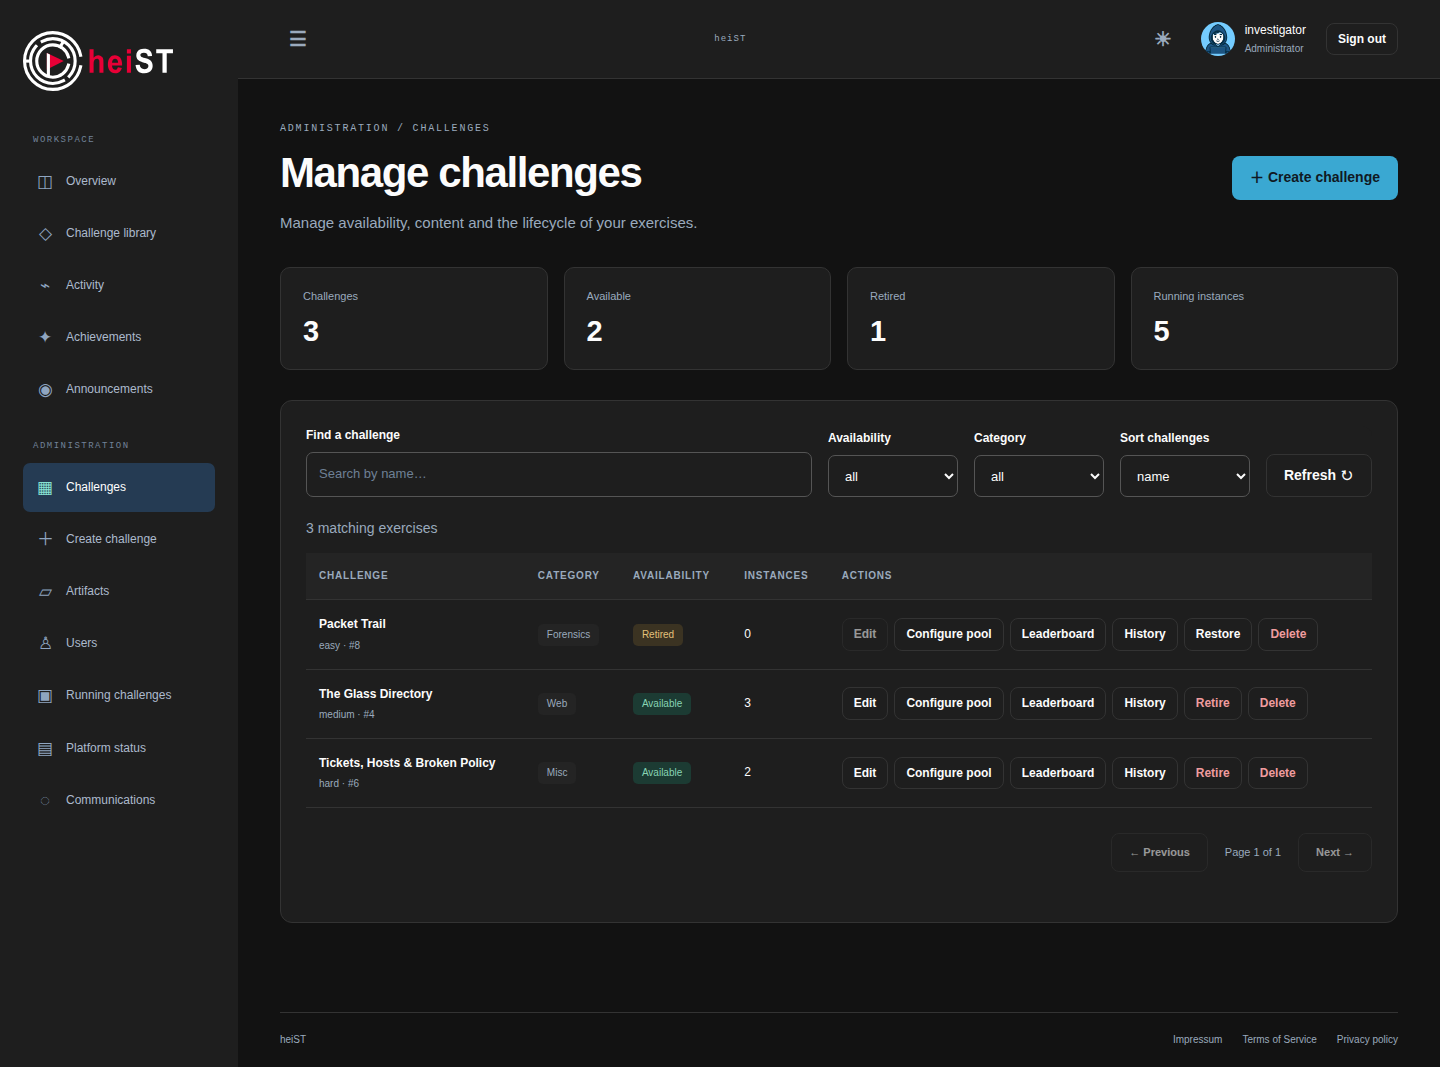
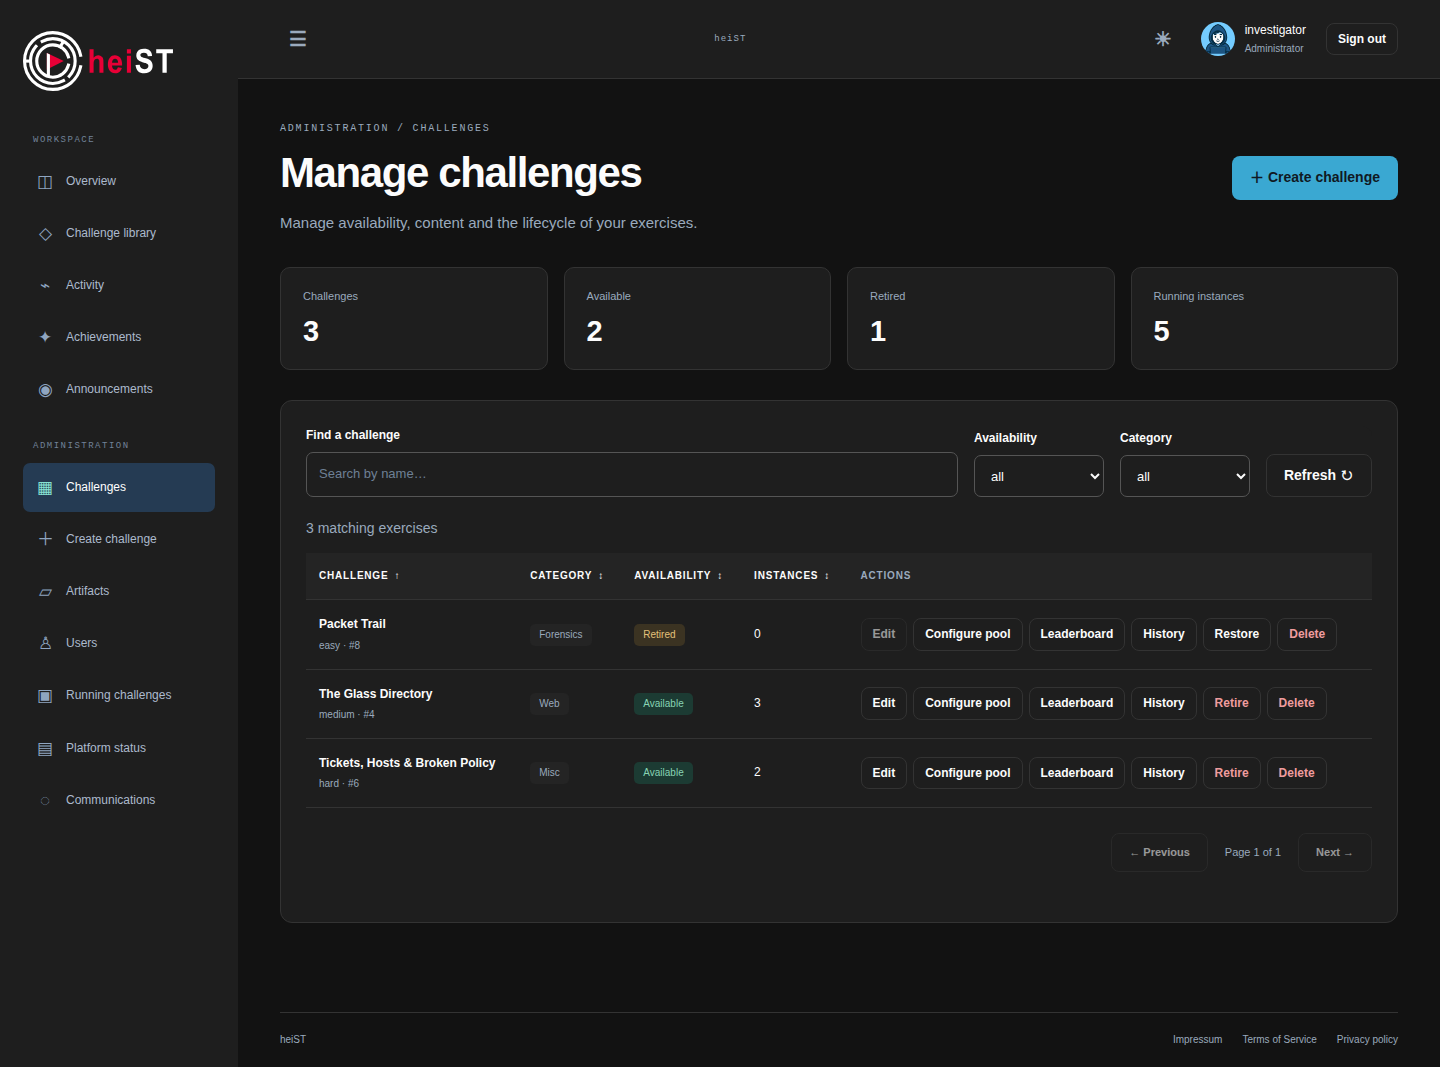
Add sortable administration table columns

diff --git a/frontend/src/features/administration/ChallengeManagementPage.tsx b/frontend/src/features/administration/ChallengeManagementPage.tsx
@@ -6,15 +6,19 @@ import { Link, useRouter } from '../../lib/router.tsx';
 import { useAction, useResource } from '../../lib/state.tsx';
 import { PoolEditor } from './PoolEditor.tsx';
 import { ExerciseHistoryPanel } from './ExerciseHistoryPanel.tsx';
+import { SortableHeader } from '../../components/SortableHeader.tsx';
+import { useTableSort } from '../../lib/useTableSort.ts';
 export function ManageChallenges() {
   const router=useRouter(), selected=number(new URLSearchParams(router.location.split('?')[1]).get('exercise'));
   const resource = useResource('/api/admin/challenges', 30000), data = payload(resource.data), stats = row(data.stats), action = useAction();
   const [search, setSearch] = useState(''), [state, setState] = useState('all'), [deleting, setDeleting] = useState<Row | null>(null), [force, setForce] = useState(false), [leader, setLeader] = useState<Row | null>(null);
   const [poolId,setPoolId] = useState(0);
-  const [category, setCategory] = useState('all'), [sort, setSort] = useState('name'), [page, setPage] = useState(1);
+  const [category, setCategory] = useState('all'), [page, setPage] = useState(1);
+  const sorting = useTableSort<Row>({name: c => text(c.name), category: c => text(c.category),
+    availability: c => truth(c.marked_for_deletion) ? 'Retired' : truth(c.is_active) ? 'Available' : 'Inactive',
+    instances: c => number(c.active_deployments)}, 'name');
   const filtered = rows(data.challenges).filter(c => text(c.name).toLowerCase().includes(search.toLowerCase()) && (state === 'all' || (state === 'active' ? truth(c.is_active) && !truth(c.marked_for_deletion) : state === 'retired' ? truth(c.marked_for_deletion) : !truth(c.is_active))));
-  const matching = filtered.filter(c => category === 'all' || text(c.category) === category)
-    .sort((a, b) => (sort === 'deployments' ? number(b.active_deployments) - number(a.active_deployments) : text(a.name).localeCompare(text(b.name))) || number(a.id) - number(b.id));
+  const matching = sorting.apply(filtered.filter(c => category === 'all' || text(c.category) === category));
   const totalPages = Math.max(1, Math.ceil(matching.length / 20)), currentPage = Math.min(page, totalPages);
   const challenges = matching.slice((currentPage - 1) * 20, currentPage * 20);
   return <>
@@ -44,7 +48,6 @@ export function ManageChallenges() {
             options={['all', 'active', 'inactive', 'retired']}
             onChange={e => { setState(e.target.value); setPage(1); }} />
           <Select label="Category" value={category} options={['all', ...categories]} onChange={e => { setCategory(e.target.value); setPage(1); }} />
-          <Select label="Sort challenges" value={sort} options={['name', 'deployments']} onChange={e => { setSort(e.target.value); setPage(1); }} />
           <button className="secondary" onClick={resource.reload}>Refresh ↻</button>
         </div>
         <p className="muted">{matching.length} matching exercises</p>
@@ -52,10 +55,9 @@ export function ManageChallenges() {
           <table>
             <thead>
               <tr>
-                <th>Challenge</th>
-                <th>Category</th>
-                <th>Availability</th>
-                <th>Instances</th>
+                {(['name', 'category', 'availability', 'instances'] as const).map((key, index) =>
+                  <SortableHeader key={key} {...sorting.header(key, ['Challenge', 'Category', 'Availability', 'Instances'][index])}
+                    onSort={() => { sorting.header(key, '').onSort(); setPage(1); }} />)}
                 <th>Actions</th>
               </tr>
             </thead>

diff --git a/frontend/src/features/administration/OperationsPage.tsx b/frontend/src/features/administration/OperationsPage.tsx
@@ -1,13 +1,16 @@
 import { OperationJournalPanel } from './OperationJournalPanel.tsx';
 import { PlatformStatusPanel } from './PlatformStatusPanel.tsx';
 import { Badge, Card, Empty, PageTitle, ResourceState, Stat } from '../../components/ui.tsx';
-import { number, payload, row, rows, text, truth } from '../../lib/data.ts';
+import { number, payload, row, rows, text, truth, type Row } from '../../lib/data.ts';
+import { SortableHeader } from '../../components/SortableHeader.tsx';
+import { useTableSort } from '../../lib/useTableSort.ts';
 import { Link, useRouter } from '../../lib/router.tsx';
 import { useResource } from '../../lib/state.tsx';
 import { ManagementOverview } from './ManagementOverview.tsx';
 import { AdministratorAuditPanel } from './AdministratorAuditPanel.tsx';
 import { MaintenancePanel } from './MaintenancePanel.tsx';
 export function Operations() {
+  const sorting = useTableSort<Row>({name: c => text(c.name), availability: c => truth(c.marked_for_deletion) ? 'Retiring' : truth(c.is_active) ? 'Available' : 'Inactive', active: c => number(c.active_deployments), total: c => number(c.total_deployments), solves: c => number(c.solve_count)}, 'name');
   const router=useRouter(), query=new URLSearchParams(router.location.split('?')[1]);
   const selected=query.get('tab')??'overview';
   const tab=['overview','health','jobs','capacity','data','audit','maintenance'].includes(selected)?selected:'overview';
@@ -39,15 +42,12 @@ export function Operations() {
           <table>
             <thead>
               <tr>
-                <th>Exercise</th>
-                <th>Availability</th>
-                <th>Active deployments</th>
-                <th>Total deployments</th>
-                <th>Solves</th>
+                {['name', 'availability', 'active', 'total', 'solves'].map((key, index) =>
+                  <SortableHeader key={key} {...sorting.header(key, ['Exercise', 'Availability', 'Active deployments', 'Total deployments', 'Solves'][index])} />)}
               </tr>
             </thead>
             <tbody>
-              {challenges.map(c => <tr key={text(c.id)}>
+              {sorting.apply(challenges).map(c => <tr key={text(c.id)}>
                 <td>
                   <Link href={`/challenge?id=${number(c.id)}`}>
                     {text(c.name)}

diff --git a/frontend/src/features/administration/ArtifactsPage.tsx b/frontend/src/features/administration/ArtifactsPage.tsx
@@ -4,7 +4,10 @@ import { request } from '../../lib/api.ts';
 import { number, payload, row, rows, text, type Row } from '../../lib/data.ts';
 import { useAction, useResource, useSession } from '../../lib/state.tsx';
 import { useArtifactUpload } from './useArtifactUpload.ts';
+import { SortableHeader } from '../../components/SortableHeader.tsx';
+import { useTableSort } from '../../lib/useTableSort.ts';
 export function Artifacts() {
+  const sorting = useTableSort<Row>({name: item => text(item.display_name ?? item.filename), os: item => text(item.guest_os), size: item => item.file_size == null && item.size == null ? null : number(item.file_size ?? item.size)}, 'name');
   const resource = useResource('/api/admin/artifacts', 10000), data = payload(resource.data), limits = row(data.limits), action = useAction();
   const session = useSession();
   const transfer = useArtifactUpload(session.user?.username ?? '', resource.reload);
@@ -69,14 +72,14 @@ export function Artifacts() {
           <table>
             <thead>
               <tr>
-                <th>Artifact</th>
-                <th>Operating system</th>
-                <th>Size</th>
+                <SortableHeader {...sorting.header('name', 'Artifact')} />
+                <SortableHeader {...sorting.header('os', 'Operating system')} />
+                <SortableHeader {...sorting.header('size', 'Size')} />
                 <th>Action</th>
               </tr>
             </thead>
             <tbody>
-              {items.map(item => <tr key={text(item.id)}>
+              {sorting.apply(items).map(item => <tr key={text(item.id)}>
                 <td>
                   <strong>
                     {text(item.display_name ?? item.filename)}

diff --git a/frontend/tests/sorting.test.ts b/frontend/tests/sorting.test.ts
@@ -1,0 +1,19 @@
+import assert from 'node:assert/strict';
+import {test} from 'node:test';
+import {sortRows} from '../src/lib/sorting.ts';
+
+test('numeric sorting uses magnitude and never mutates the source', () => {
+  const source = [10, 2, 100];
+  assert.deepEqual(sortRows(source, item => item), [2, 10, 100]);
+  assert.deepEqual(sortRows(source, item => item, true), [100, 10, 2]);
+  assert.deepEqual(source, [10, 2, 100]);
+});
+test('natural names, equal keys and missing values have predictable ordering', () => {
+  assert.deepEqual(sortRows(['VM 10', 'vm 2'], item => item), ['vm 2', 'VM 10']);
+  for (const descending of [false, true]) {
+    assert.deepEqual(sortRows([null, 2, undefined, 1], item => item, descending),
+      descending ? [2, 1, null, undefined] : [1, 2, null, undefined]);
+  }
+  const same = [{id: 1}, {id: 2}];
+  assert.deepEqual(sortRows(same, () => 'equal'), same);
+});

diff --git a/frontend/src/lib/sorting.ts b/frontend/src/lib/sorting.ts
@@ -1,0 +1,12 @@
+export type SortValue = string | number | null | undefined;
+
+/** Missing values stay last in either direction; numeric values stay numeric. */
+export function sortRows<T>(items: readonly T[], value: (item: T) => SortValue, descending = false): T[] {
+  return [...items].sort((a, b) => {
+    const left = value(a), right = value(b);
+    if (left == null || right == null) return left == null ? (right == null ? 0 : 1) : -1;
+    const order = typeof left === 'number' && typeof right === 'number'
+      ? left - right : String(left).localeCompare(String(right), undefined, {numeric: true, sensitivity: 'base'});
+    return descending ? -order : order;
+  });
+}

diff --git a/frontend/src/lib/useTableSort.ts b/frontend/src/lib/useTableSort.ts
@@ -1,0 +1,11 @@
+import {useState} from 'react';
+import {sortRows, type SortValue} from './sorting.ts';
+
+export function useTableSort<T>(columns: Record<string, (item: T) => SortValue>, initial: string) {
+  const [sort, setSort] = useState({key: initial, descending: false});
+  return {
+    apply: (items: readonly T[]) => sortRows(items, columns[sort.key], sort.descending),
+    header: (key: string, label: string) => ({label, active: sort.key === key, descending: sort.descending,
+      onSort: () => setSort(previous => ({key, descending: previous.key === key && !previous.descending}))}),
+  };
+}

diff --git a/frontend/src/styles.css b/frontend/src/styles.css
@@ -909,6 +909,23 @@ th,td {
   border-bottom:1px solid var(--line)
 }
 
+th .table-sort {
+  display:inline-flex;
+  align-items:center;
+  gap:6px;
+  padding:0;
+  border:0;
+  border-radius:2px;
+  background:transparent;
+  color:var(--ink);
+  font:inherit;
+  text-transform:inherit;
+  letter-spacing:inherit;
+  cursor:pointer;
+}
+th .table-sort:hover { color:var(--ink); background:transparent }
+th .table-sort:focus-visible { outline:2px solid var(--ink); outline-offset:4px }
+
 td small {
   display:block;
   color:var(--muted);

diff --git a/frontend/src/components/SortableHeader.tsx b/frontend/src/components/SortableHeader.tsx
@@ -1,0 +1,9 @@
+type Props = { label: string; active: boolean; descending: boolean; onSort: () => void };
+
+export function SortableHeader({label, active, descending, onSort}: Props) {
+  return <th scope="col" aria-sort={active ? (descending ? 'descending' : 'ascending') : 'none'}>
+    <button type="button" className="table-sort" onClick={onSort}>
+      {label} <span aria-hidden="true">{active ? (descending ? '↓' : '↑') : '↕'}</span>
+    </button>
+  </th>;
+}

diff --git a/tests/browser/ui_management.py b/tests/browser/ui_management.py
@@ -15,6 +15,19 @@ class ManagementBrowserTests(BrowserFixture):
         self.visit(path)
         self.page.wait_for_function("!document.querySelector('main .loading')")
 
+    def test_challenge_column_sorting_applies_before_pagination(self):
+        self.responses['admin/challenges']['data']['challenges'] = [
+            {'id': i, 'name': f'Exercise {i}', 'category': 'web', 'active_deployments': i}
+            for i in range(25, 0, -1)]
+        self.settled('/manage-ctf')
+        table = self.page.locator('table').first
+        self.assertIn('Exercise 1', table.locator('tbody tr').first.inner_text())
+        table.get_by_role('button', name='Instances', exact=True).click()
+        table.get_by_role('button', name='Instances', exact=True).click()
+        self.assertEqual(table.get_by_role('columnheader', name='Instances').get_attribute('aria-sort'), 'descending')
+        self.assertIn('Exercise 25', table.locator('tbody tr').first.inner_text())
+        self.assertEqual(table.locator('tbody tr').count(), 20)
+
     def test_fresh_unverified_coverage_is_distinct_from_missing_or_stale_evidence(self):
         for status in ('unknown', 'stale', 'unavailable'):
             with self.subTest(status=status):

diff --git a/docs/administration/MANAGEMENT.md b/docs/administration/MANAGEMENT.md
@@ -86,6 +86,11 @@ Back up the database and registered image library independently.
 
 ### Editing an existing exercise
 
+Click column headings in challenge management, exercise availability and the
+artifact library to sort ascending or descending. The arrow and `aria-sort`
+indicate the current direction. Challenge sorting covers all matching results
+before pagination; filters and refreshes preserve the selected sort.
+
 Use **Manage challenges → Edit** for machine resources, directory
 roles, networks, flags and hints. The server permits this only while the
 exercise is paused, not retired, and has no remaining assigned, provisioning or
